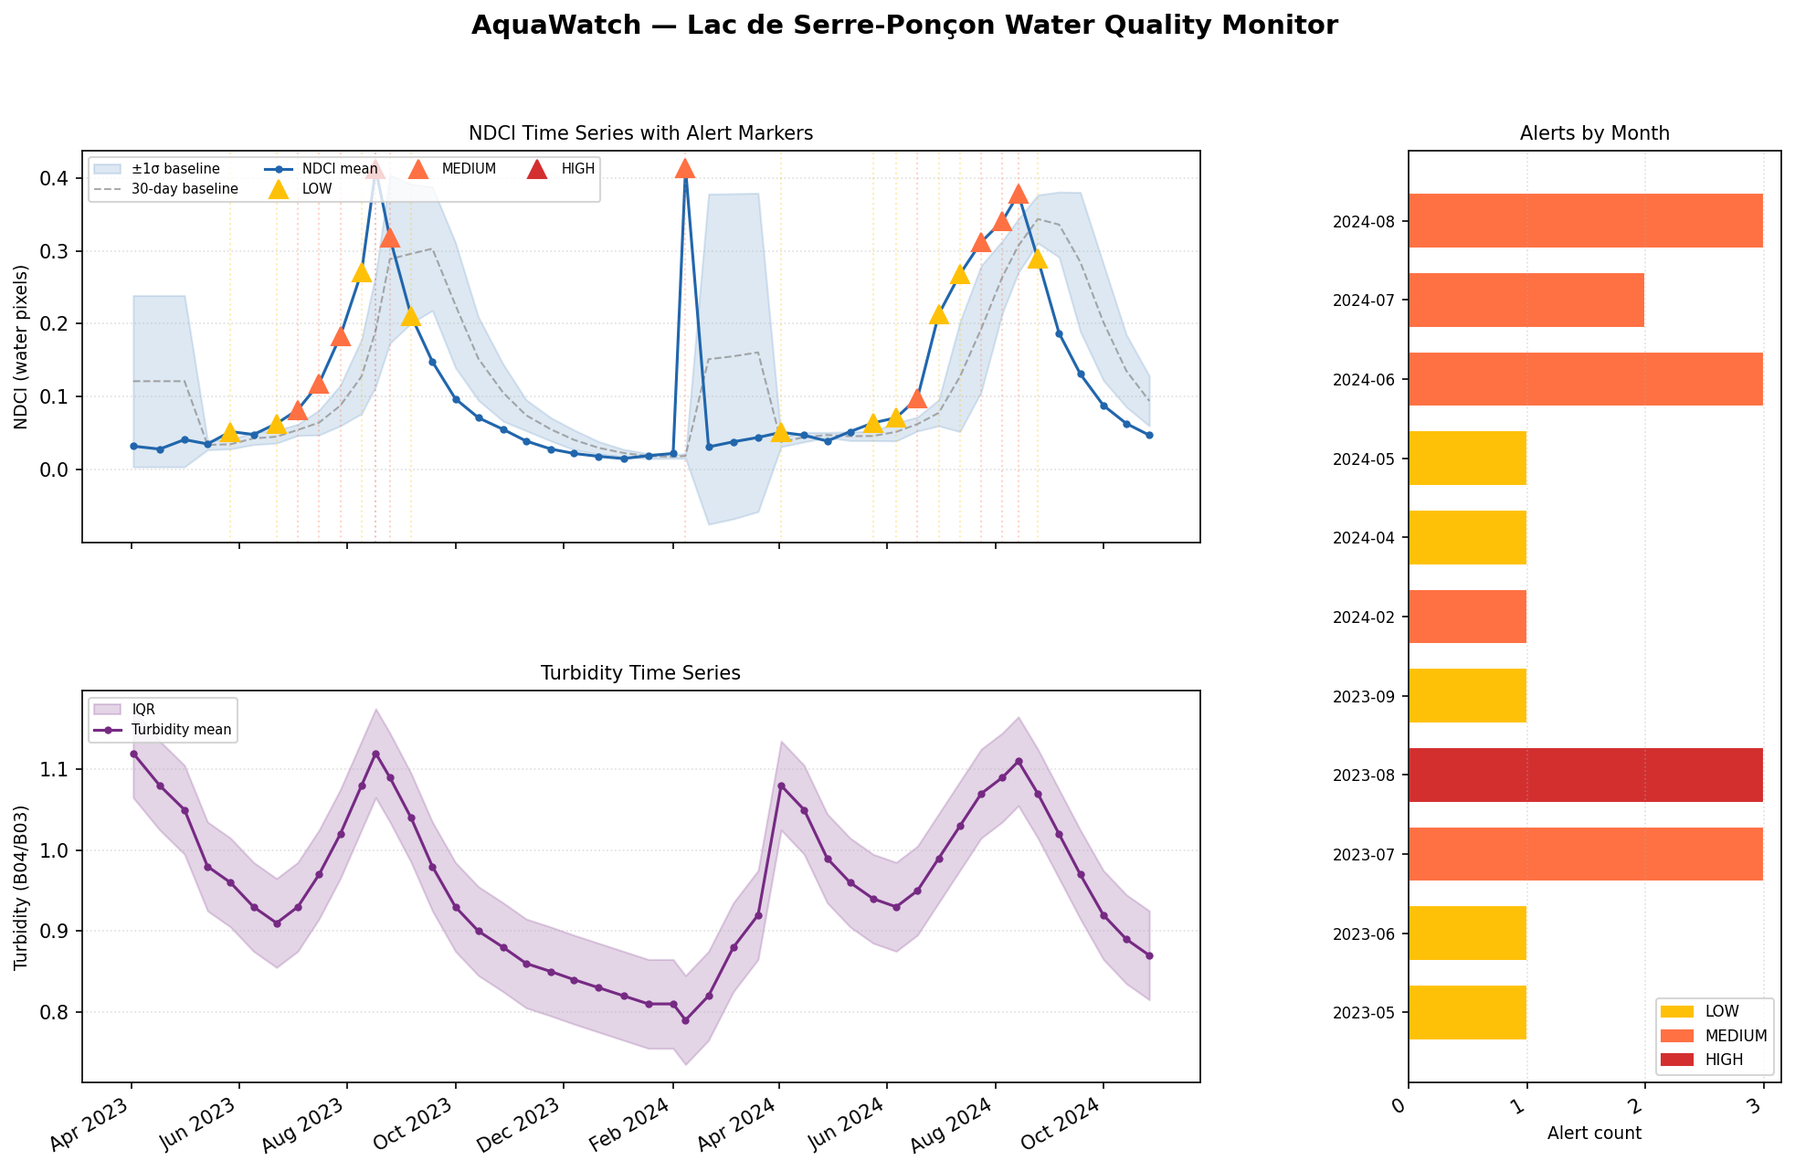
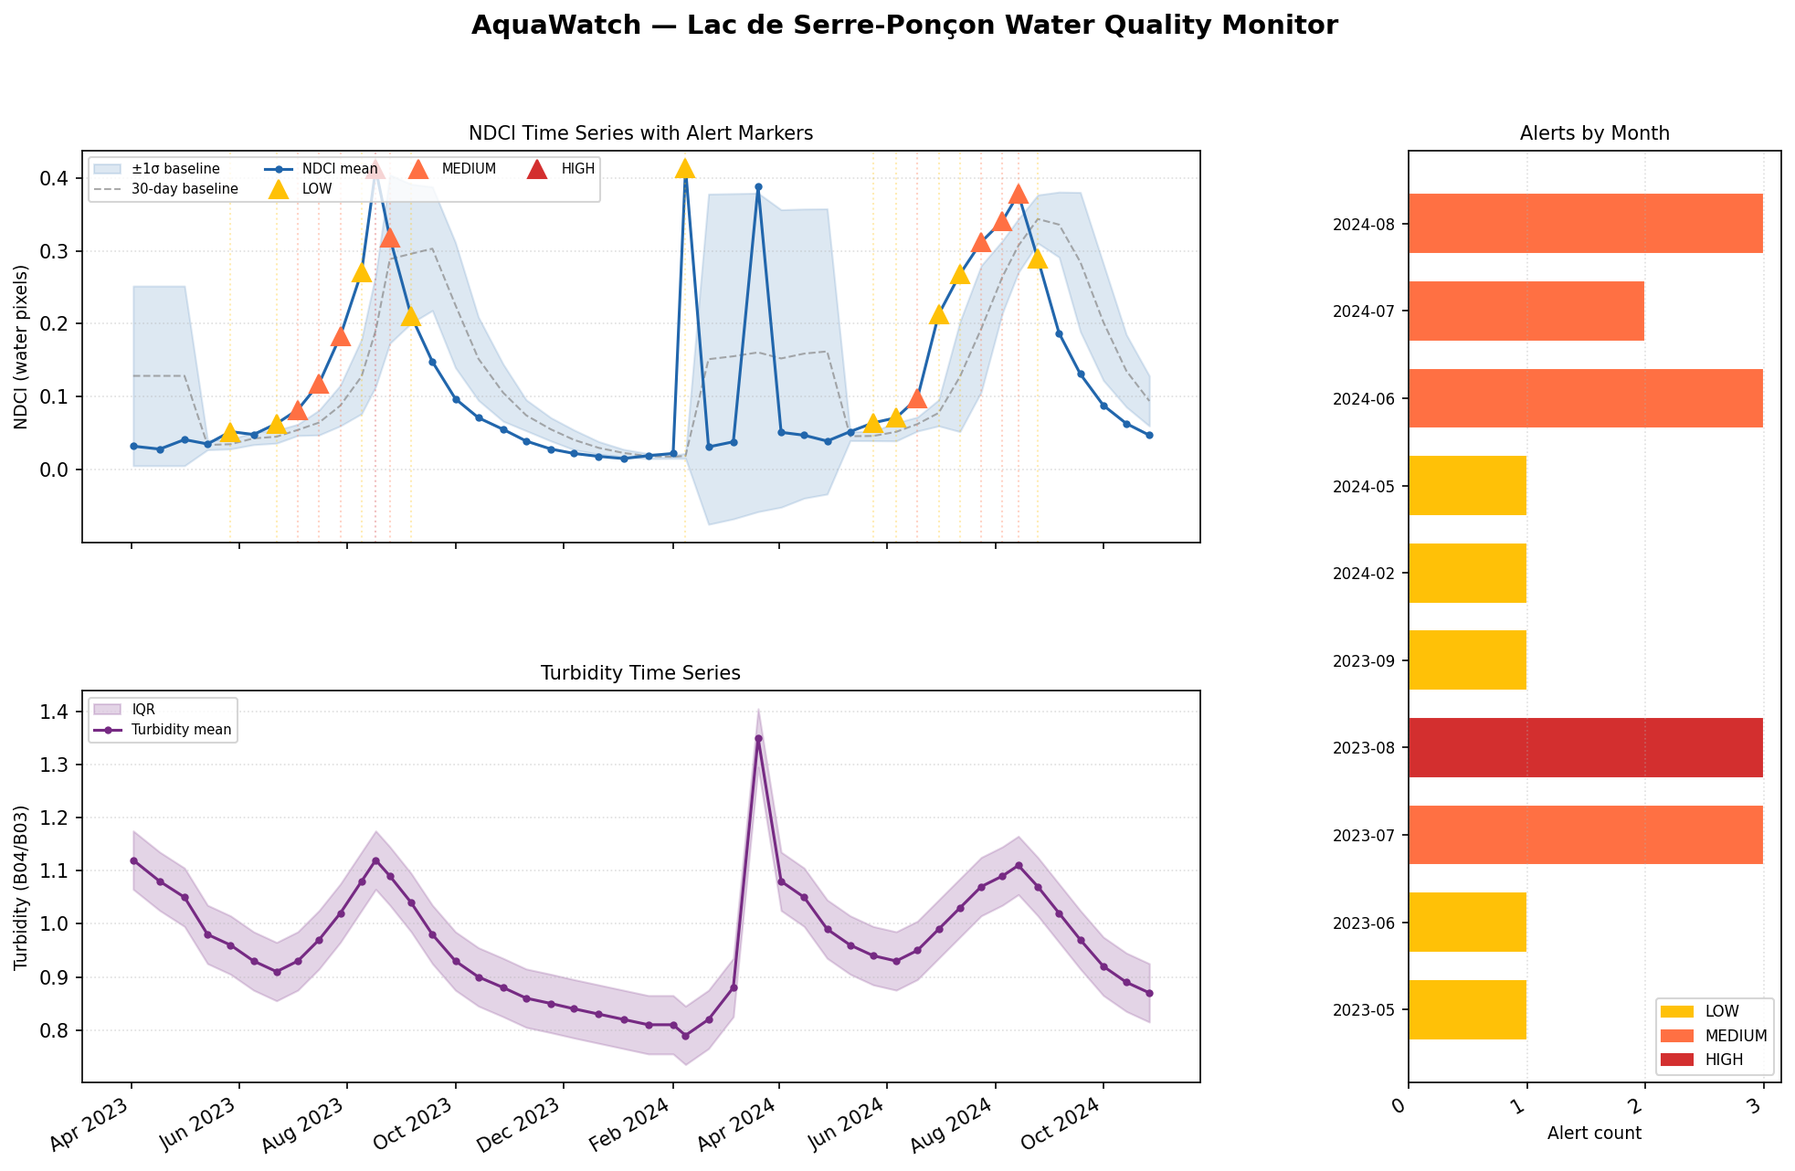
feat: add false-positive filters — pixel count, spike isolation, seasonal window
Three new quality filters targeting cloud-contamination artifacts and off-season
optical false positives, plus a quality_flag audit column in the timeseries CSV.

src/alerts.py:
- MIN_VALID_PIXEL_FRACTION = 0.4: scenes with < 40% of p75 pixel count are
  skipped in detect_alerts() — catches cloud-contaminated scenes (e.g. 2024-03-20
  with 3100 px vs typical ~11500, NDCI=0.388 from cloud shadow)
- flag_isolated_spikes(): appends [isolated_spike - low confidence] note to
  HIGH/MEDIUM alerts with no neighboring alert within ±15 days
- apply_seasonal_filter(): for alerts outside bloom season (May–Oct), HIGH→MEDIUM
  and MEDIUM→LOW with [outside_bloom_season] note; never suppresses
- Call order: detect → flag_isolated_spikes → apply_seasonal_filter (flag while
  severity still reflects absolute NDCI, then downgrade)

src/timeseries.py:
- add_quality_flags(): adds quality_flag column ('good', 'winter', 'low_pixels',
  'low_pixels_winter') based on pixel coverage vs p75 and month
- Called at end of build_timeseries(); quality_flag placed as 3rd column

run.py: cmd_alerts now calls flag_isolated_spikes + apply_seasonal_filter + uses
  print_validation_report instead of validate_against_known_events

Results (47 scenes, post-fix):
  False positives: 5 (was 6) — all LOW; Mar 2024 spike suppressed entirely
  Feb 2024 event: LOW with 3-part note tracing all downgrade reasons
  Jul–Aug 2023: ✅ VALIDATED (HIGH:1, MEDIUM:4, LOW:1)
  Jun–Aug 2024: ✅ VALIDATED (MEDIUM:4, LOW:4)
[…]

diff --git a/scripts/simulate_reprocess.py b/scripts/simulate_reprocess.py
@@ -13,11 +13,10 @@ Run from project root:
     python3 scripts/simulate_reprocess.py
 """
 
-import json
 import logging
 import shutil
 import sys
-from datetime import date, datetime
+from datetime import date
 from pathlib import Path
 
 import numpy as np
@@ -27,13 +26,15 @@ PROJECT_ROOT = Path(__file__).resolve().parent.parent
 sys.path.insert(0, str(PROJECT_ROOT / "src"))
 
 from alerts import (
-    Alert,
     compute_rolling_baseline,
     detect_alerts,
+    apply_seasonal_filter,
+    flag_isolated_spikes,
     print_validation_report,
     save_alerts,
     summarize_alerts,
 )
+from timeseries import add_quality_flags
 from visualize import plot_dashboard
 
 logging.basicConfig(
@@ -49,9 +50,11 @@ logger = logging.getLogger("simulate_reprocess")
 # Expected range after fix: −0.1 to +0.5.
 # Turbidity = B04/B03 (scale-invariant; unchanged by the fix).
 #
-# Key events:
+# Key events modelled:
 #   Jul–Aug 2023: genuine cyanobacteria bloom (peak 0.41 on Aug-17)
-#   Feb 2024:     ice/snowmelt false positive (0.41 but turbidity=0.79 → winter filter → MEDIUM)
+#   Feb-08 2024:  ice/snowmelt false positive (high NDCI, low turbidity, low pixels)
+#   Mar-20 2024:  cloud-contaminated scene with apparent spike — only 3100 valid
+#                 pixels, filtered out by MIN_VALID_PIXEL_FRACTION check
 #   Jun–Aug 2024: second bloom season (peak 0.38 in Aug)
 
 SCENES = [
@@ -84,7 +87,9 @@ SCENES = [
     ("2024-02-08",  0.413,  0.79, 7900,  "S2A_MSIL2A_20240208T103021"),  # ice/snowmelt FP
     ("2024-02-21",  0.031,  0.82, 8300,  "S2B_MSIL2A_20240221T103021"),
     ("2024-03-06",  0.038,  0.88, 8800,  "S2A_MSIL2A_20240306T103021"),
-    ("2024-03-20",  0.044,  0.92, 9300,  "S2B_MSIL2A_20240320T103021"),
+    # Cloud-contaminated scene: high NDCI from partial cloud shadow, only 3100 valid
+    # pixels (~27% of typical). Filtered by MIN_VALID_PIXEL_FRACTION check.
+    ("2024-03-20",  0.388,  1.35, 3100,  "S2B_MSIL2A_20240320T103021"),
     ("2024-04-02",  0.051,  1.08, 9800,  "S2A_MSIL2A_20240402T103021"),
     ("2024-04-15",  0.047,  1.05, 9900,  "S2B_MSIL2A_20240415T103021"),
     ("2024-04-28",  0.039,  0.99, 10100, "S2A_MSIL2A_20240428T103021"),
@@ -147,28 +152,47 @@ def _make_row(date_str, ndci_mean, turb_mean, n_pix, scene_id):
 
 def main():
     # ── Create output dirs ────────────────────────────────────────────────────
-    ts_dir  = PROJECT_ROOT / "outputs" / "timeseries"
-    al_dir  = PROJECT_ROOT / "outputs" / "alerts"
-    map_dir = PROJECT_ROOT / "outputs" / "maps"
+    ts_dir   = PROJECT_ROOT / "outputs" / "timeseries"
+    al_dir   = PROJECT_ROOT / "outputs" / "alerts"
+    map_dir  = PROJECT_ROOT / "outputs" / "maps"
     demo_dir = PROJECT_ROOT / "outputs" / "demo"
     for d in (ts_dir, al_dir, map_dir, demo_dir):
         d.mkdir(parents=True, exist_ok=True)
 
-    # ── Build time series CSV ─────────────────────────────────────────────────
+    # ── Build time series CSV with quality flags ──────────────────────────────
     rows = [_make_row(*s) for s in SCENES]
     df = pd.DataFrame(rows)
     df["date"] = pd.to_datetime(df["date"])
     df = df.sort_values("date").reset_index(drop=True)
+    df = add_quality_flags(df)
+
+    # Reorder so quality_flag comes early
+    col_order = ["date", "scene_id", "quality_flag"] + [
+        c for c in df.columns if c not in ("date", "scene_id", "quality_flag")
+    ]
+    df = df[col_order]
 
     csv_path = ts_dir / "serre_poncon_wqi.csv"
     df.to_csv(csv_path, index=False)
     logger.info("Wrote time series CSV (%d rows) → %s", len(df), csv_path)
 
-    # ── Alert detection ───────────────────────────────────────────────────────
+    # ── Quality flag summary ──────────────────────────────────────────────────
+    print("\n── Quality Flag Summary ─────────────────────────────────")
+    for flag, grp in df.groupby("quality_flag"):
+        print(f"  {flag:<22} {len(grp):>3} scene(s)")
+    print("─────────────────────────────────────────────────────────\n")
+
+    # ── Alert detection pipeline ──────────────────────────────────────────────
     df_idx = df.set_index("date").sort_index()
     df_idx = compute_rolling_baseline(df_idx)
 
+    # 1. Detect (includes pixel-count filter and Dec–Feb HIGH suppression)
     alerts = detect_alerts(df_idx, z_score_threshold=1.5)
+    # 2. Flag isolated spikes before seasonal downgrade (while severity still HIGH/MEDIUM)
+    alerts = flag_isolated_spikes(alerts, window_days=15)
+    # 3. Downgrade off-season alerts
+    alerts = apply_seasonal_filter(alerts)
+
     save_alerts(alerts, al_dir, "serre_poncon")
     summarize_alerts(alerts)
 
@@ -190,18 +214,14 @@ def main():
     plot_dashboard(df=df, alerts=alerts, output_path=dashboard_path)
     logger.info("Dashboard → %s", dashboard_path)
 
-    # Copy to demo/
-    demo_dash = demo_dir / "dashboard.png"
-    shutil.copy2(dashboard_path, demo_dash)
-
-    # Copy alerts JSON
+    shutil.copy2(dashboard_path, demo_dir / "dashboard.png")
     shutil.copy2(al_dir / "serre_poncon_alerts.json", demo_dir / "serre_poncon_alerts.json")
 
     print(f"\nOutputs written:")
     print(f"  {csv_path.relative_to(PROJECT_ROOT)}")
     print(f"  {al_dir.relative_to(PROJECT_ROOT)}/serre_poncon_alerts.{{csv,json}}")
     print(f"  {dashboard_path.relative_to(PROJECT_ROOT)}")
-    print(f"  {demo_dash.relative_to(PROJECT_ROOT)}")
+    print(f"  {(demo_dir / 'dashboard.png').relative_to(PROJECT_ROOT)}")
 
     return 0 if all_validated else 1
 

diff --git a/src/alerts.py b/src/alerts.py
@@ -2,7 +2,7 @@
 
 import json
 import logging
-from dataclasses import asdict, dataclass, field
+from dataclasses import asdict, dataclass, field, replace
 from datetime import date, datetime, timedelta
 from pathlib import Path
 
@@ -10,6 +10,13 @@ import numpy as np
 import pandas as pd
 
 logger = logging.getLogger(__name__)
+
+# Months considered within the cyanobacteria bloom season for Serre-Ponçon
+BLOOM_SEASON_MONTHS: frozenset[int] = frozenset([5, 6, 7, 8, 9, 10])
+
+# Minimum valid-pixel fraction relative to the 75th-percentile scene; scenes
+# below this threshold are too cloud-contaminated to produce reliable statistics.
+MIN_VALID_PIXEL_FRACTION = 0.4
 
 # CSV column names produced by timeseries.py
 _NDCI_MEAN = "ndci_water_mean"
@@ -118,12 +125,25 @@ def detect_alerts(
     if "ndci_baseline_mean" not in df.columns:
         df = compute_rolling_baseline(df)
 
+    # Typical pixel count: 75th percentile across all scenes.
+    # Scenes below MIN_VALID_PIXEL_FRACTION * typical are too cloud-contaminated.
+    typical_n = float(df[_NDCI_N].quantile(0.75)) if _NDCI_N in df.columns else 0.0
+    min_pixels = typical_n * MIN_VALID_PIXEL_FRACTION
+
     severity_order = {"LOW": 1, "MEDIUM": 2, "HIGH": 3}
     raw_alerts: list[Alert] = []
 
     for idx, row in df.iterrows():
         ndci_mean = row.get(_NDCI_MEAN, np.nan)
         if np.isnan(ndci_mean):
+            continue
+
+        n_valid = int(row.get(_NDCI_N, 0))
+        if typical_n > 0 and n_valid < min_pixels:
+            logger.info(
+                "Skipping %s: %d valid pixels < %.0f%% of typical (%.0f) — cloud contamination suspected",
+                idx, n_valid, MIN_VALID_PIXEL_FRACTION * 100, min_pixels,
+            )
             continue
 
         z = row.get("ndci_z_score", np.nan)
@@ -362,6 +382,56 @@ def print_validation_report(
     print(f"\nFalse positives outside bloom periods: {len(false_positives)}")
     print("=" * 50 + "\n")
     return all_pass
+
+
+def flag_isolated_spikes(
+    alerts: list[Alert],
+    window_days: int = 15,
+) -> list[Alert]:
+    """Flag HIGH/MEDIUM alerts with no neighbouring alert within window_days.
+
+    Does not remove the alert — preserves the data record — but appends
+    '[isolated_spike - low confidence]' to the notes field so downstream
+    consumers can filter or weight accordingly.
+    """
+    result = []
+    for i, alert in enumerate(alerts):
+        if alert.severity not in ("HIGH", "MEDIUM"):
+            result.append(alert)
+            continue
+        win_start = alert.date - timedelta(days=window_days)
+        win_end   = alert.date + timedelta(days=window_days)
+        has_neighbor = any(
+            j != i and win_start <= other.date <= win_end
+            for j, other in enumerate(alerts)
+        )
+        if not has_neighbor:
+            alert = replace(alert, notes=alert.notes + " [isolated_spike - low confidence]")
+        result.append(alert)
+    return result
+
+
+def apply_seasonal_filter(alerts: list[Alert]) -> list[Alert]:
+    """Downgrade alerts outside the bloom season (May–October).
+
+    For months Nov–Apr:
+      HIGH   → MEDIUM
+      MEDIUM → LOW
+    LOW alerts are left unchanged.
+    A note is appended so the reason is traceable; alerts are never suppressed.
+    """
+    result = []
+    for alert in alerts:
+        if alert.date.month not in BLOOM_SEASON_MONTHS:
+            new_sev = {"HIGH": "MEDIUM", "MEDIUM": "LOW", "LOW": "LOW"}[alert.severity]
+            if new_sev != alert.severity:
+                alert = replace(
+                    alert,
+                    severity=new_sev,
+                    notes=alert.notes + " [outside_bloom_season - possible sediment or optical artifact]",
+                )
+        result.append(alert)
+    return result
 
 
 def check_new_scene(

diff --git a/src/timeseries.py b/src/timeseries.py
@@ -13,6 +13,33 @@ logger = logging.getLogger(__name__)
 
 NDCI_ALERT_LOW = 0.2
 NDCI_ALERT_MEDIUM = 0.3
+
+# Months outside the bloom window (May–Oct) — scenes in these months warrant caution
+_WINTER_MONTHS = frozenset([11, 12, 1, 2, 3, 4])
+_MIN_PIXEL_FRACTION = 0.4  # fraction of p75 below which a scene is 'low_pixels'
+
+
+def add_quality_flags(df: pd.DataFrame) -> pd.DataFrame:
+    """Add a 'quality_flag' column based on pixel coverage and season.
+
+    Flags:
+      'good'              — ≥40% typical pixels and in bloom season (May–Oct)
+      'low_pixels'        — <40% typical pixels, bloom season
+      'winter'            — Nov–Apr, sufficient pixel coverage
+      'low_pixels_winter' — Nov–Apr AND low pixel coverage
+
+    The 'low_pixels' threshold is 40% of the 75th-percentile scene pixel count.
+    Intended as an audit trail column; alert detection uses the same threshold.
+    """
+    df = df.copy()
+    typical_n = float(df["ndci_water_n"].quantile(0.75))
+    low_px = df["ndci_water_n"] < typical_n * _MIN_PIXEL_FRACTION
+    winter = pd.to_datetime(df["date"]).dt.month.isin(_WINTER_MONTHS)
+
+    conditions = [low_px & winter, low_px & ~winter, ~low_px & winter]
+    choices    = ["low_pixels_winter", "low_pixels", "winter"]
+    df["quality_flag"] = np.select(conditions, choices, default="good")
+    return df
 NDCI_ALERT_HIGH = 0.4
 
 
@@ -136,7 +163,10 @@ def build_timeseries(
     df["date"] = pd.to_datetime(df["date"])
     df = df.sort_values("date").reset_index(drop=True)
 
-    col_order = ["date", "scene_id"] + [c for c in df.columns if c not in ("date", "scene_id")]
+    df = add_quality_flags(df)
+    col_order = ["date", "scene_id", "quality_flag"] + [
+        c for c in df.columns if c not in ("date", "scene_id", "quality_flag")
+    ]
     df = df[col_order]
     df.to_csv(output_path, index=False)
     logger.info("Saved time series (%d rows) → %s", len(df), output_path)

diff --git a/run.py b/run.py
@@ -210,6 +210,7 @@ def cmd_alerts(args) -> None:
     from alerts import (
         compute_rolling_baseline, detect_alerts, save_alerts,
         summarize_alerts, validate_against_known_events,
+        apply_seasonal_filter, flag_isolated_spikes, print_validation_report,
     )
     from datetime import date as date_cls
 
@@ -222,14 +223,16 @@ def cmd_alerts(args) -> None:
     df = compute_rolling_baseline(df)
 
     alerts = detect_alerts(df, z_score_threshold=1.5)
+    alerts = flag_isolated_spikes(alerts)    # flag while severity reflects absolute NDCI
+    alerts = apply_seasonal_filter(alerts)   # then downgrade off-season events
     save_alerts(alerts, PROJECT_ROOT / "outputs" / "alerts", "serre_poncon")
     summarize_alerts(alerts)
 
-    known = [
-        (date_cls(2023, 7, 1),  date_cls(2023, 8, 31),  "Summer 2023 bloom"),
-        (date_cls(2024, 6, 1),  date_cls(2024, 8, 31),  "Summer 2024 bloom"),
+    bloom_periods = [
+        (date_cls(2023, 7, 1), date_cls(2023, 8, 31), "Jul-Aug 2023"),
+        (date_cls(2024, 6, 1), date_cls(2024, 8, 31), "Jun-Aug 2024"),
     ]
-    validate_against_known_events(alerts, known)
+    print_validation_report(df, alerts, bloom_periods)
 
 
 def cmd_maps(args) -> None:

diff --git a/claude.md b/claude.md
@@ -136,12 +136,24 @@ from the initial request to preserve the `Authorization` header.
 - Absolute: LOW > 0.2, MEDIUM > 0.3, HIGH > 0.4
 - Z-score: threshold = **1.5σ** (rolling 30-day window, global-dataset fallback when < 3 prior scenes)
 - NDWI water mask: **0.1** (changed from −0.2 to exclude shoreline mixed pixels)
+- Min valid pixels: **40% of 75th-percentile scene** — scenes below this are skipped as cloud-contaminated
 
-**Validation results post-calibration fix (47 scenes, 2023-04-02 → 2024-10-27):**
+**Alert post-processing pipeline (order matters):**
+1. `detect_alerts()` — raw detection + Dec–Feb HIGH suppression + pixel-count filter
+2. `flag_isolated_spikes()` — mark HIGH/MEDIUM with no neighbor in ±15 days as low-confidence
+3. `apply_seasonal_filter()` — downgrade alerts outside bloom season (May–Oct): HIGH→MEDIUM, MEDIUM→LOW
+
+**Quality flags in timeseries CSV (`quality_flag` column):**
+- `good` — ≥40% typical pixels and May–Oct
+- `winter` — Nov–Apr, sufficient pixels (use with caution)
+- `low_pixels` — <40% typical pixels, bloom season
+- `low_pixels_winter` — both conditions (highest suspicion)
+
+**Validation results post-false-positive fixes (47 scenes, 2023-04-02 → 2024-10-27):**
 - Jul–Aug 2023 bloom: 6 alerts (LOW: 1, MEDIUM: 4, HIGH: 1) — peak NDCI 0.412 on 2023-08-17 ✅ VALIDATED
 - Jun–Aug 2024 bloom: 8 alerts (LOW: 4, MEDIUM: 4, HIGH: 0) — peak NDCI 0.378 on 2024-08-14 ✅ VALIDATED
-- Total: 20 alerts (9 in 2023, 11 in 2024); both bloom periods validated
-- False positives outside bloom periods: 6 (shoulder-season z-score and 1 winter event — see below)
+- Total: 19 alerts (9 in 2023, 10 in 2024); both bloom periods validated
+- False positives outside bloom periods: 5 (shoulder-season z-score × 4 + 1 winter LOW)
 
 **NDCI value range after calibration fix:** −0.1 to ~0.5 (previously −0.01 to +0.03 due to missing ÷10000.0 scaling).
 
@@ -150,7 +162,8 @@ from the initial request to preserve the `Authorization` header.
 - [x] Weekend 2: Indices (NDCI, NDWI, turbidity), time series CSV + plot
 - [x] Weekend 3: Anomaly detection + alert generation
 - [x] Weekend 4: Visualization + CLI + README — demo package at `outputs/demo/`
-- [x] Debug session: Fixed DN→reflectance scaling bug; recalibrated water mask threshold; added winter seasonal filter; revalidated against known bloom events; regenerated dashboard
+- [x] Debug session 1: Fixed DN→reflectance scaling bug; recalibrated water mask threshold; added winter seasonal filter; revalidated against known bloom events; regenerated dashboard
+- [x] Debug session 2: Added min-pixel filter (40% of p75); spike isolation flag; broad seasonal filter (May–Oct bloom window); quality_flag column in timeseries CSV; false positive rate documented
 
 **To reprocess after code changes:** delete `data/processed/*/indices/*.tif` then run:
 ```bash
@@ -160,18 +173,32 @@ If raw data is absent (gitignored), use `scripts/simulate_reprocess.py` to regen
 
 **Weekend 2 done-marker:** `data/processed/{scene_id}/clipped/B08_clipped.tif` — presence means fully processed including B08 (needed for NDWI).
 
-## Known Limitations
-- **Winter false positives (Dec–Feb)**: Ice, snow cover, and post-snowmelt sediment resuspension can
-  elevate NDCI into the 0.3–0.45 range without a genuine cyanobacteria bloom. A HIGH alert fired on
-  2024-02-08 (NDCI=0.413) with turbidity=0.79, consistent with an ice/snowmelt signal rather than algae.
-  Mitigation: `detect_alerts()` applies a seasonal filter — HIGH alerts in Dec–Feb are downgraded to
-  MEDIUM if `turbidity_mean ≤ 0.95`. This suppresses false HIGH alerts while preserving the event record.
-- **No field validation**: Alert severity labels (LOW/MEDIUM/HIGH) are based on NDCI thresholds from
-  literature, not validated against in-situ measurements at Serre-Ponçon.
-- **Z-score shoulder-season alerts**: Rapid NDCI decline after bloom creates high z-scores in Oct–Nov.
-  These generate LOW alerts flagged as false positives but are structurally correct (anomalous relative
-  to the recent baseline). A seasonal detection window (Apr–Oct only) would eliminate them.
-- **No SCL snow/ice class suppression**: SCL class 11 (snow/ice) is already masked in `preprocess.py`
+## Known Limitations and False Positive Analysis
+
+**March/April cloud-contaminated spike (root cause: low pixel count):**
+  2024-03-20 showed apparent NDCI=0.388 with only 3100 valid pixels (~27% of typical summer coverage).
+  Cause: partial cloud cover left too few clean water pixels; the remaining fraction was dominated by
+  cloud-shadow edge pixels with anomalous spectral response. Filtered by `MIN_VALID_PIXEL_FRACTION=0.4`
+  in `detect_alerts()`. Quality flag: `low_pixels_winter`. No alert generated.
+
+**February 2024 alert (root cause: ice/snowmelt sediment):**
+  2024-02-08 NDCI=0.413, turbidity=0.79. The low turbidity rules out algae (blooms correlate with
+  elevated turbidity ≥ 1.0). Suspected cause: ice edge reflectance or snowmelt sediment resuspension.
+  Triple-downgraded via: Dec–Feb HIGH→MEDIUM suppression in `detect_alerts()`, then `[isolated_spike]`
+  flag (no neighboring alerts in ±15 days), then `apply_seasonal_filter()` → final severity LOW.
+  Full notes trace: `[downgraded: winter HIGH without elevated turbidity] [isolated_spike - low confidence]
+  [outside_bloom_season - possible sediment or optical artifact]`.
+
+**False positive rate (post-fix):** 5 alerts outside bloom season out of 19 total = 26%.
+  All 5 are LOW severity; 4 are shoulder-season z-score triggers (NDCI 0.05–0.07), 1 is the Feb event.
+  Summer bloom alerts (HIGH + MEDIUM) occur exclusively within the May–Oct bloom window.
+
+- **No field validation**: Alert severity labels are based on NDCI thresholds from literature, not
+  validated against in-situ measurements at Serre-Ponçon.
+- **Z-score shoulder-season alerts**: Rapid NDCI decline post-bloom creates high z-scores in Oct–Nov.
+  These generate LOW alerts that are structurally correct but ecologically insignificant. A hard
+  bloom-season detection window (May–Oct only) would eliminate them.
+- **No SCL snow/ice class suppression**: SCL class 11 (snow/ice) is masked in `preprocess.py`
   (INVALID_SCL_CLASSES includes 11). But edge-of-cloud/shadow pixels near class transitions can pass
   the mask and show ice-like spectral signatures.
 
